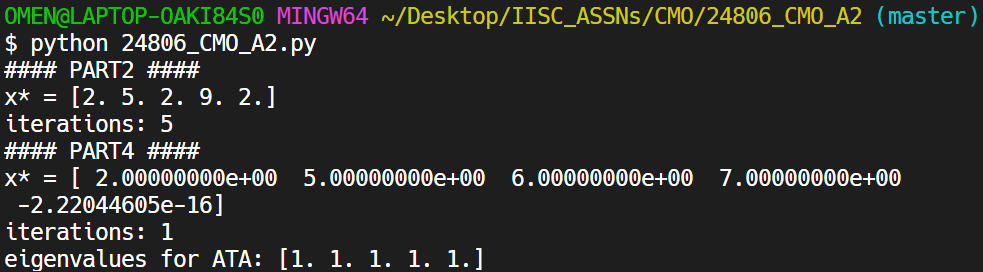
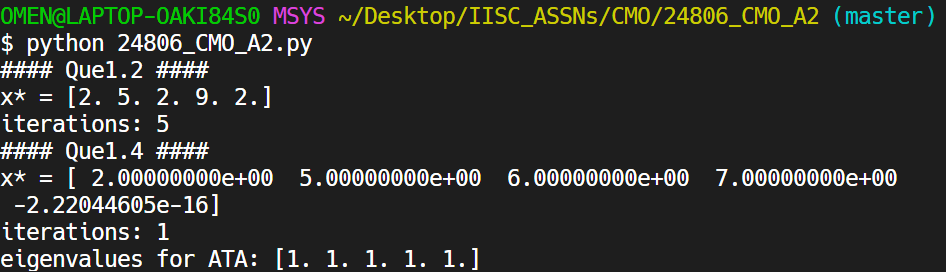
adding cmo assignment 2 completed

diff --git a/CMO/24806_CMO_A2/24806_CMO_A2.py b/CMO/24806_CMO_A2/24806_CMO_A2.py
@@ -1,10 +1,32 @@
 from oracles import f1, f2, f3
 import numpy as np 
+import matplotlib.pyplot as plt 
+import warnings; warnings.filterwarnings("ignore")
 
 sr = 24806
 
 def gradf(A, x, b):
     return np.dot(A,x) - b
+
+def plot_values(output, label_name='alpha', ylim = None, newton = False):
+    if newton:
+        for out in output:
+            fval = out['f']
+            alpha = out.get('a', None)
+            K = out['K']
+            plt.plot([i for i in range(K)], fval[:K], marker = 'o', label=f'{label_name}: {alpha}' if alpha is not None else "")
+            plt.plot([i for i in range(K, len(fval))], fval[K:], marker='x', label=f'{label_name}: {alpha}' if alpha is not None else "")
+    else:
+        for out in output:
+            fval = out['f']
+            alpha = out.get('a', None)
+            plt.plot([i for i in range(len(fval))], fval, label=f'{label_name}: {alpha}' if alpha is not None else "")
+    plt.xlabel("Iterations")
+    plt.ylabel('f(x)')
+    plt.legend()
+    if ylim is not None:
+        plt.ylim(*ylim)
+    plt.show()
 
 def conjugate_gradient(A, b, x0):
     gs = [gradf(A, x0, b)]
@@ -32,12 +54,94 @@ def conjugate_gradient(A, b, x0):
         "T": T
     }
 
+def ConstantGradientDescent(fun, alpha, initialx):
+    x = initialx
+    fxvals = []
+    for i in range(100):
+        fx = fun(x, sr, 0)
+        gradfx = fun(x, sr, 1)
+        x = x - alpha * gradfx
+        fxvals.append(fx)
+    return {"f": fxvals, "a": alpha, 'x': x}
+
+def NewtonMethod(fun, initialx):
+    x = initialx
+    fxvals = []
+    for i in range(100):
+        fx = fun(x, sr, 0)
+        u = fun(x, sr, 2)
+        x = x - u
+        fxvals.append(fx)
+    return {"f": fxvals, 'x': x}
+
+def GDNewton(fun, alpha, initialx, K):
+    x = initialx
+    fxvals = []
+    for i in range(K):
+        fx = fun(x, sr, 0)
+        gradfx = fun(x, sr, 1)
+        x = x - alpha * gradfx
+        fxvals.append(fx)
+    for i in range(K, 100):
+        fx = fun(x, sr, 0)
+        u = fun(x, sr, 2)
+        x = x - u
+        fxvals.append(fx)
+    return {"f": fxvals, "a": alpha, "K":K, 'x': x}
+
+def GDNewtonInterleve(fun, alpha, initialx, K):
+    x = initialx
+    fxvals = []
+    for i in range(1, 101):
+        fx = fun(x, sr, 0)
+        if i % K == 0:
+            u = fun(x, sr, 2)
+            x = x - u
+        else:
+            gradfx = fun(x, sr, 1)
+            x = x - alpha * gradfx
+        fxvals.append(fx)
+    return {"f": fxvals, "a": alpha, "K":K, 'x': x}
+
+def quasiNewtonConstStep(fun, alpha, initialx):
+    x = initialx
+    G = np.eye(x.shape[0])
+    g = fun(x, sr, 1)
+    fvals = []
+    for i in range(100):
+        fvals.append(fun(x, sr, 0))
+        u = -np.dot(G, g)
+        delta = alpha * u
+        x = x + delta
+        gnew = fun(x, sr, 1)
+        gamma = gnew - g
+        term = delta - np.dot(G, gamma) 
+        G = G + np.dot(term.reshape(-1,1), term.reshape(-1,1).T) / np.dot(term, gamma)
+        g = gnew
+    return {'f': fvals, 'x': x, 'a': alpha}
+
+def quasiNewtonId(fun, alpha, initialx):
+    x = initialx
+    G = np.eye(x.shape[0])
+    g = fun(x, sr, 1)
+    fvals = []
+    for i in range(100):
+        fvals.append(fun(x, sr, 0))
+        u = -np.dot(G, g)
+        delta = alpha * u
+        x = x + delta
+        gnew = fun(x, sr, 1)
+        gamma = gnew - g
+        G = (np.dot(delta, delta) / np.dot(delta, gamma)) * np.eye(x.shape[0])
+        g = gnew
+    return {'f': fvals, 'x': x, 'a': alpha}
+
 def que1():
     A, b = f1(sr, True)
     b = b.reshape(-1)
     x0 = np.array([0 for _ in range(b.shape[0])])
     out = conjugate_gradient(A, b, x0)
-    print("#### PART2 ####")
+    print("#### Que1.2 ####")
     print(f"x* = {out['x']}")
     # print(out['cg'])
     print(f"iterations: {out['T']}")
@@ -51,7 +155,7 @@ def que1():
     x0 = np.array([0 for _ in range(new_b.shape[0])])
 
     out = conjugate_gradient(Q, new_b, x0)
-    print("#### PART4 ####")
+    print("#### Que1.4 ####")
     print(f"x* = {out['x']}")
     # print(out['cg'])
     print(f"iterations: {out['T']}")
@@ -59,5 +163,170 @@ def que1():
     print(f"eigenvalues for ATA: {np.linalg.eigh(Q)[0]}")
 
 
+def que2():
+    x = np.array([0.0 for _ in range(5)])
+    alphas = [1e-1, 1e-2, 1e-3, 1e-4, 1e-5]
+    outputs = []
+    for alpha in alphas:
+        outputs.append(ConstantGradientDescent(f2, alpha, x))
+    plot_values(outputs)
+
+    print("#### Que-2.1 ####")
+    for out in outputs:
+        print(f"alpha: {out['a']}, x* = {out['x']}")
+
+    out = NewtonMethod(f2, x)
+    plot_values([out])
+    print("#### Que-2.2 ####")
+    print(f"Newton x* = {out['x']}")
+
+    newton_outputs = []
+    initialxs = [np.array([2,4,8,0,6]), np.array([2,4,6,2,2]), np.array([2,4,0,1,6]), np.array([2,4,0,1,4]), np.array([1,2,3,4,5])]
+    for x in initialxs:
+        newton_out = NewtonMethod(f2, x)
+        newton_out['a'] = x
+        newton_outputs.append(newton_out)
+    plot_values(newton_outputs, "x0")
+    print("#### Que-2.3 ####")
+    for idx, nout in enumerate(newton_outputs):
+        print(f"x0: {initialxs[idx]}, x*: {nout['x']}")
+
+def find_min_index(lis):
+    idx = 0
+    mn = lis[idx]
+    for i in range(1, len(lis)):
+        if mn > lis[i]:
+            idx = i 
+            mn = lis[idx]
+    return mn, idx
+
+def que3():
+    x0 = np.array([1,1,1,1,1],dtype=np.float32)
+
+    out1 = ConstantGradientDescent(f3, 0.1, x0)
+    plot_values([out1])
+    print("#### Que-3.1 ####")
+    print(f"min f(x): {min(out1['f']):.3f}")
+
+
+    print("#### Que-3.2 ####")
+    alphas = [0.1,0.2,0.3,0.4,0.5]
+    outs = []
+    for alpha in alphas:
+        out = ConstantGradientDescent(f3, alpha, x0)
+        outs.append(out)
+    plot_values(outs)
+
+    out2 = []
+    for a in [0.02, 0.01, 0.009]:
+        cout = ConstantGradientDescent(f3, a, x0)
+        out2.append(cout)
+        print(f"min f(x) (alpha = {a}): {min(cout['f']):.3f}")
+    plot_values(out2)
+
+    # out2 = ConstantGradientDescent(f3, 0.01, x0)
+    # plot_values([out2])
+    # print(f"min f(x): {min(out2['f']):.3f}")
+
+
+    out = NewtonMethod(f3, x0)
+
+    print("#### Que-3.2 ####")
+    print(f"f(x) values for Newton")
+    print(out['f'][:10])
+
+    alphas = [0.01, 0.02, 0.1, 0.2]
+    Ks = [60, 80, 85, 90, 100]
+
+    all_k_alpha_fx = []
+
+    for K in Ks:
+        out_alpha = []
+        for alpha in alphas:
+            cgdnewton = GDNewton(f3, alpha, x0, K)
+            cgdnewton['mnf'] = min(cgdnewton['f'])
+            out_alpha.append(cgdnewton)
+        plot_values(out_alpha, f"K: {K} alpha", ylim=[0,30], newton=True)
+        all_k_alpha_fx.extend(out_alpha)
+
+    # Ks = [10, 20, 30, 40, 50]
+    # alphas = [0.01, 0.02, 0.009, 0.008]
+    # all_k_alpha_fx = []
+
+    # for K in Ks:
+    #     out_alpha = []
+    #     for alpha in alphas:
+    #         cgdnewton = GDNewtonInterleve(f3, alpha, x0, K)
+    #         cgdnewton['mnf'] = min(cgdnewton['f'])
+    #         out_alpha.append(cgdnewton)
+    #     plot_values(out_alpha, f"K: {K} alpha", ylim=[0,30])
+    #     all_k_alpha_fx.extend(out_alpha)
+
+    min_f = all_k_alpha_fx[0]['mnf']
+    min_out = all_k_alpha_fx[0]
+    for out_f in all_k_alpha_fx[1:]:
+        if min_f > out_f['mnf']:
+            min_f = out_f['mnf']
+            min_out = out_f 
+    print("#### Que-3.4 ####")
+    print(f"min f(x): {min_out['mnf']:.3f}, K: {min_out['K']}, alpha:: {min_out['a']}")    
+
+def que4():
+    alphas = [1e-1, 2e-1, 1e-2, 3e-2, 1e-3]
+    outs = []
+    print("#### Gradient Descent ####")
+    for alpha in alphas:
+        out = ConstantGradientDescent(f2, alpha, np.zeros(5))
+        print(f"alpha: {out['a']} x*: {out['x']}")
+        outs.append(out)
+    plot_values(outs)
+
+    outs = []
+    print("#### Quasi Newton Rank 1 ####")
+    for alpha in alphas:
+        out = quasiNewtonConstStep(f2, alpha, np.zeros(5))
+        outs.append(out)
+        print(f"alpha: {out['a']} x*: {out['x']}")
+    plot_values(outs)
+
+    outs = []
+    print("#### Quasi Newton scaler multiple of Identity ####")
+    for alpha in alphas:
+        out = quasiNewtonId(f2, alpha, np.zeros(5))
+        print(f"alpha: {out['a']} x*: {out['x']}")
+        outs.append(out)
+    plot_values(outs)
+
+
 if __name__ == "__main__":
-    que1()
+    run_map = {
+        "q1": que1,
+        "q2": que2,
+        "q3": que3,
+        "q4": que4
+    }
+
+    que = int(input("which question output you want: [1/2/3/4]: "))
+    run_map[f'q{que}']()
+
+"""
+def quasiNewtonELS(fun, initialx):
+    x = initialx
+    G = np.eye(x.shape[0])
+    g = fun(x, sr, 1)
+    fvals = []
+    b = fun(x, sr, 1)
+    for i in range(100):
+        fvals.append(fun(x, sr, 0))
+        u = -np.dot(G, g)
+        alpha = -np.dot(g, u) / 2 * (fun(u, sr, 0) - np.dot(b, u))
+        print(alpha)
+        delta = alpha * u
+        x = x + delta
+        gnew = fun(x, sr, 1)
+        gamma = gnew - g
+        term = delta - np.dot(G, gamma) 
+        G = G + np.dot(term.reshape(-1,1), term.reshape(-1,1).T) / np.dot(term, gamma)
+        g = gnew
+    return {'f': fvals, 'x': x, 'a': alpha}
+"""

diff --git a/CMO/24806_CMO_A2/test.py b/CMO/24806_CMO_A2/test.py
@@ -1,0 +1,18 @@
+from oracles import f1, f2, f3 
+import numpy as np 
+sr = 24806
+
+if __name__ == "__main__":
+    a = np.zeros(5)
+    fx = f2(a, sr, 0)
+    print(fx)
+
+    gfx = f2(a, sr, 1)
+    print(gfx)
+
+    b = 2*np.ones(5)
+    hfx1 = f2(b, sr, 2) 
+    hfx2 = f2(-b, sr, 2) 
+
+    print(hfx1)
+    print(hfx2)
